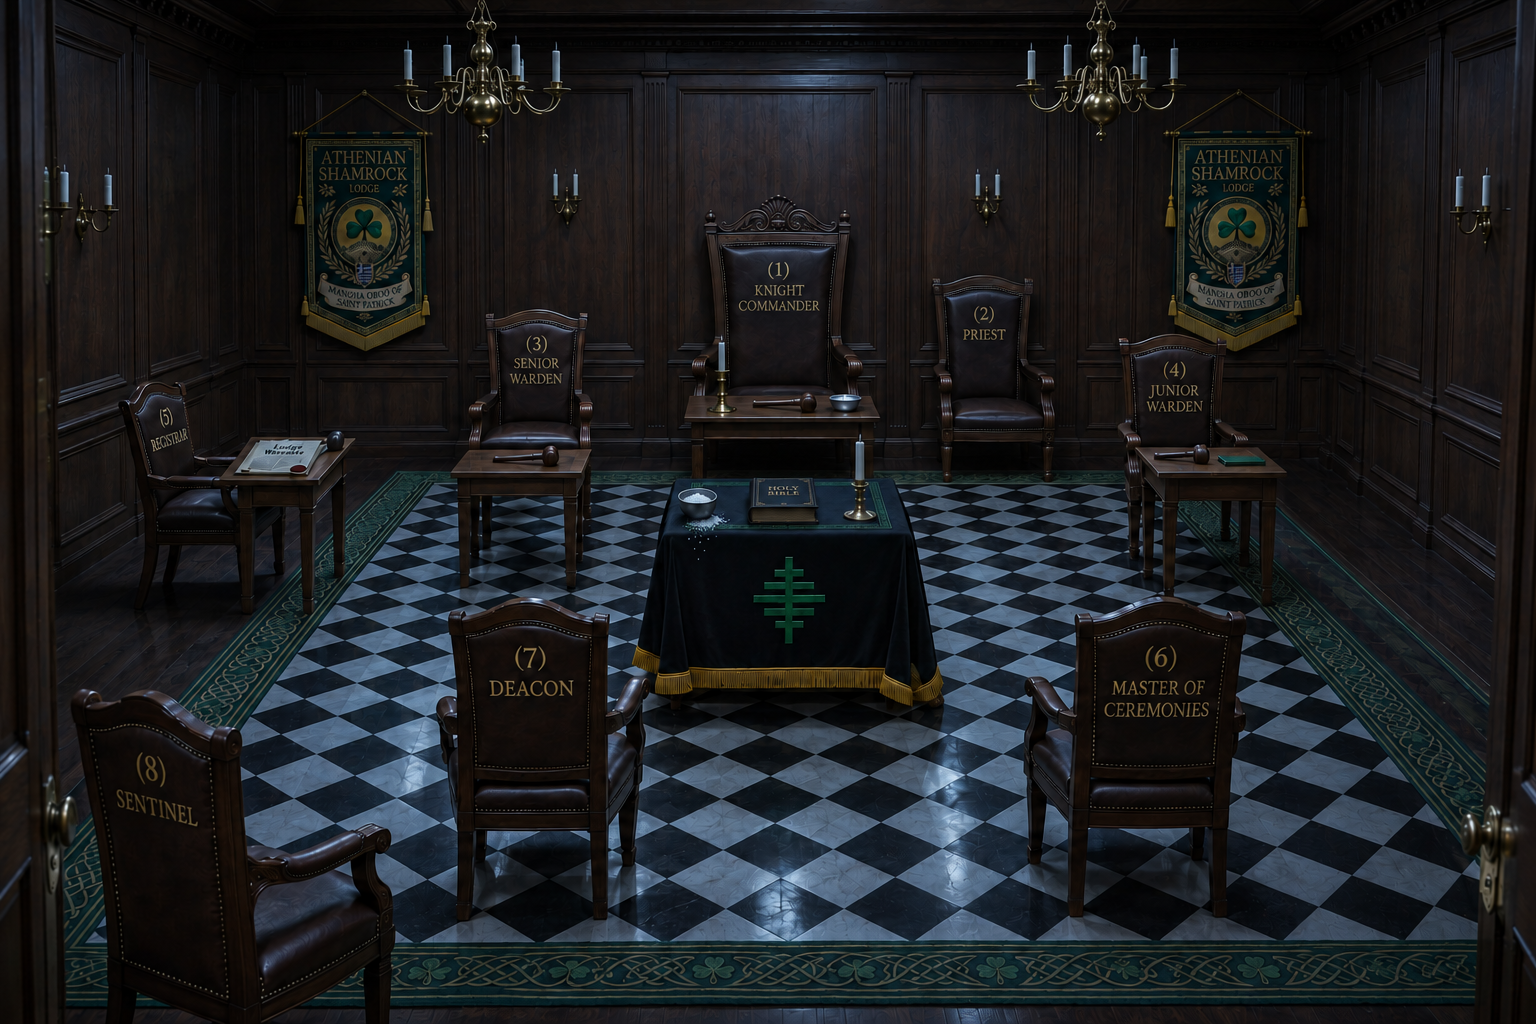
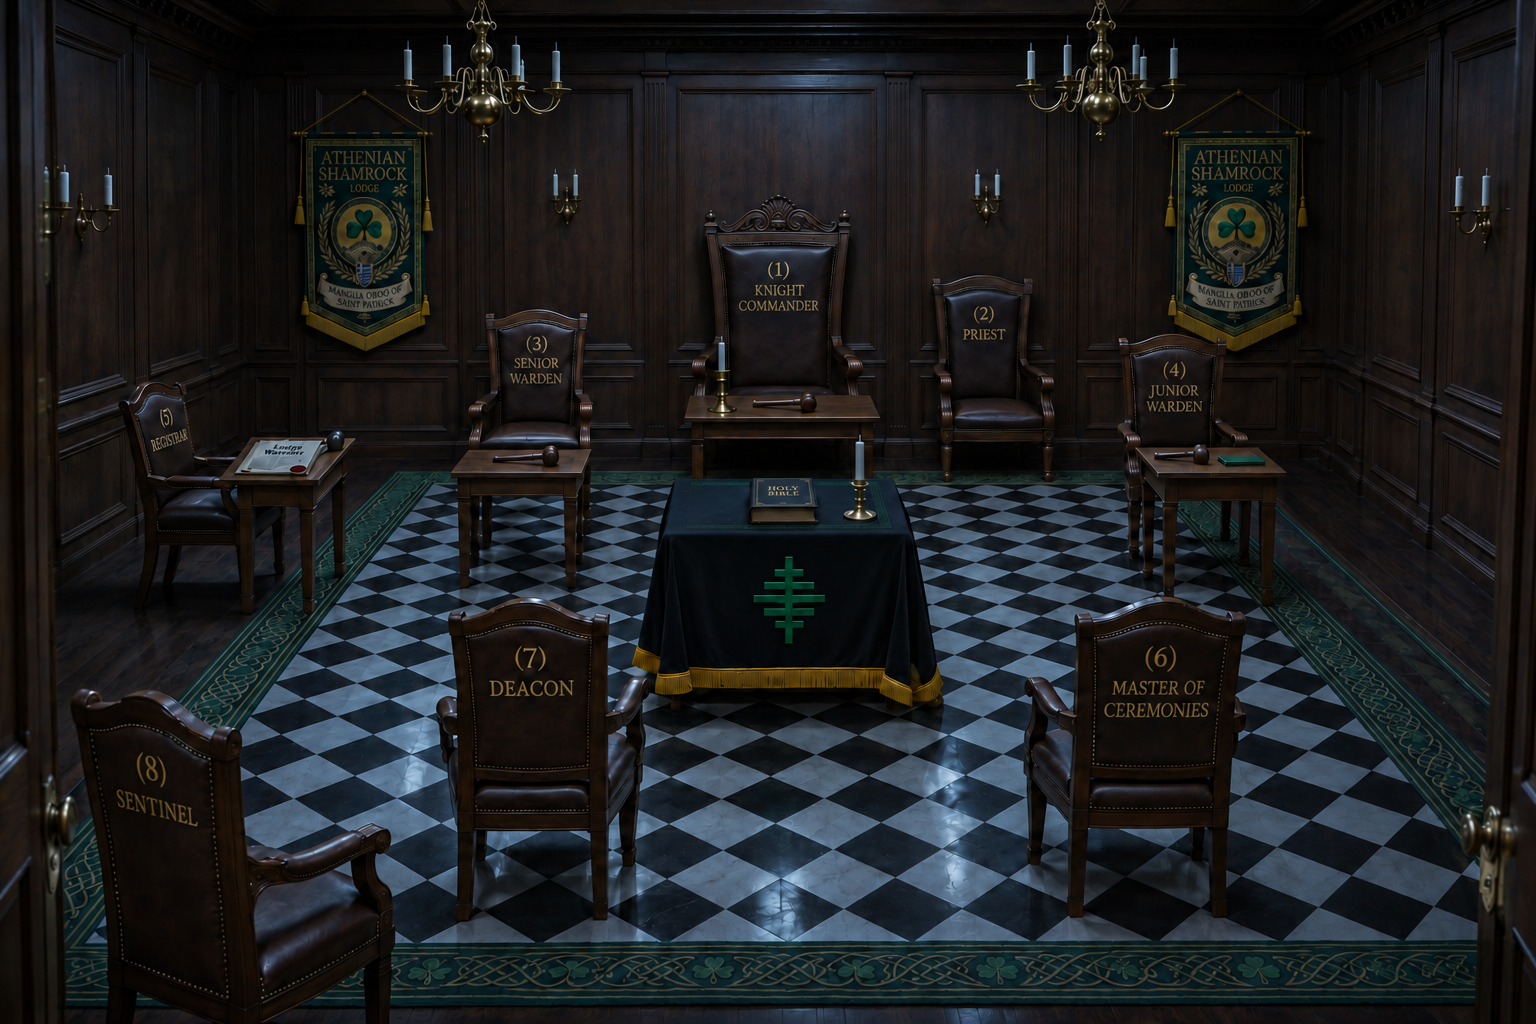
Hide salt bowls when the Lodge lights are off

diff --git a/index.html b/index.html
@@ -893,7 +893,7 @@
           <img src="./lodge-chamber.png" width="1536" height="1024" alt="Eight numbered officer chairs around the altar in the Lodge chamber.">
           <img class="altar-salt" src="./lodge-chamber-salt.png" width="1536" height="1024" alt="A bowl of salt on the altar, with grains spilled onto the cloth.">
           <img id="open-cigar" class="station-cigar station-cigar--open" src="./lodge-cigar-open.webp" width="1536" height="1024" alt="An unlit cigar lies across the direction of the gavel on the Knight Commander’s desk.">
-          <img id="closed-chamber" class="closed-chamber" src="./lodge-closed.png" width="1536" height="1024" alt="The same Lodge chamber in darkness, with the candles extinguished and the Holy Bible closed beside the bowl of salt." hidden>
+          <img id="closed-chamber" class="closed-chamber" src="./lodge-closed.png" width="1536" height="1024" alt="The same Lodge chamber in darkness, with the candles extinguished and the Holy Bible closed." hidden>
           <img id="closed-cigar" class="station-cigar station-cigar--closed" src="./lodge-cigar-closed.webp" width="1536" height="1024" alt="A lit cigar on the Knight Commander’s desk sends a thin wisp of smoke upwards." hidden>
           <button type="button" id="altar-switch" class="altar-switch" aria-label="Close the Lodge" aria-pressed="false"></button>
           <button type="button" class="seat-badge" data-role="kc" aria-label="1. Knight Commander" aria-pressed="false" style="--x:50.7%;--y:30.2%;--hit-width:9.5%;--hit-height:17%"><span class="num" aria-hidden="true">1</span></button>
@@ -1762,6 +1762,7 @@ Sir Knights, vous êtes renvoyé.</div>
 
         const altarSwitch = document.getElementById("altar-switch");
         const closedChamber = document.getElementById("closed-chamber");
+        const altarSalt = document.querySelector(".altar-salt");
         const openCigar = document.getElementById("open-cigar");
         const closedCigar = document.getElementById("closed-cigar");
         const openChamberLayers = document.querySelectorAll(".chamber-photo img:not(.closed-chamber):not(.station-cigar)");
@@ -1786,6 +1787,7 @@ Sir Knights, vous êtes renvoyé.</div>
           closedChamber.hidden = !closing;
           closedCigar.hidden = !closing;
           openCigar.hidden = closing;
+          altarSalt.hidden = closing;
           altarSwitch.setAttribute("aria-pressed", String(closing));
           lodgeLightsButton.textContent = closing ? "Switch on the Lodge lights" : "Switch off the Lodge lights";
           lodgeLightStatus.textContent = closing ? "The Lodge is closed." : "The Lodge is open.";
